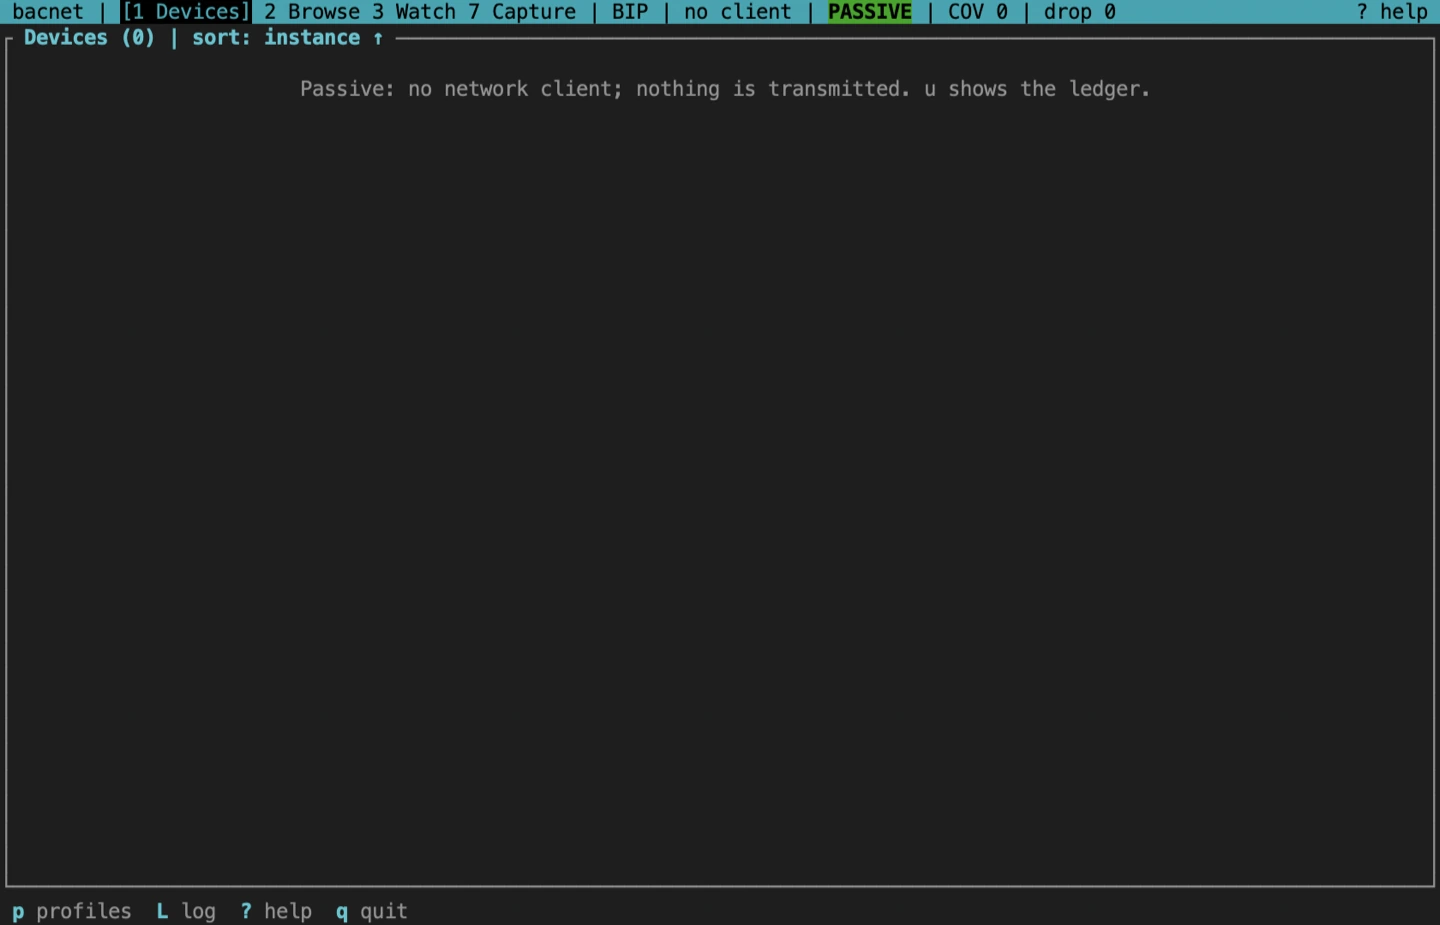
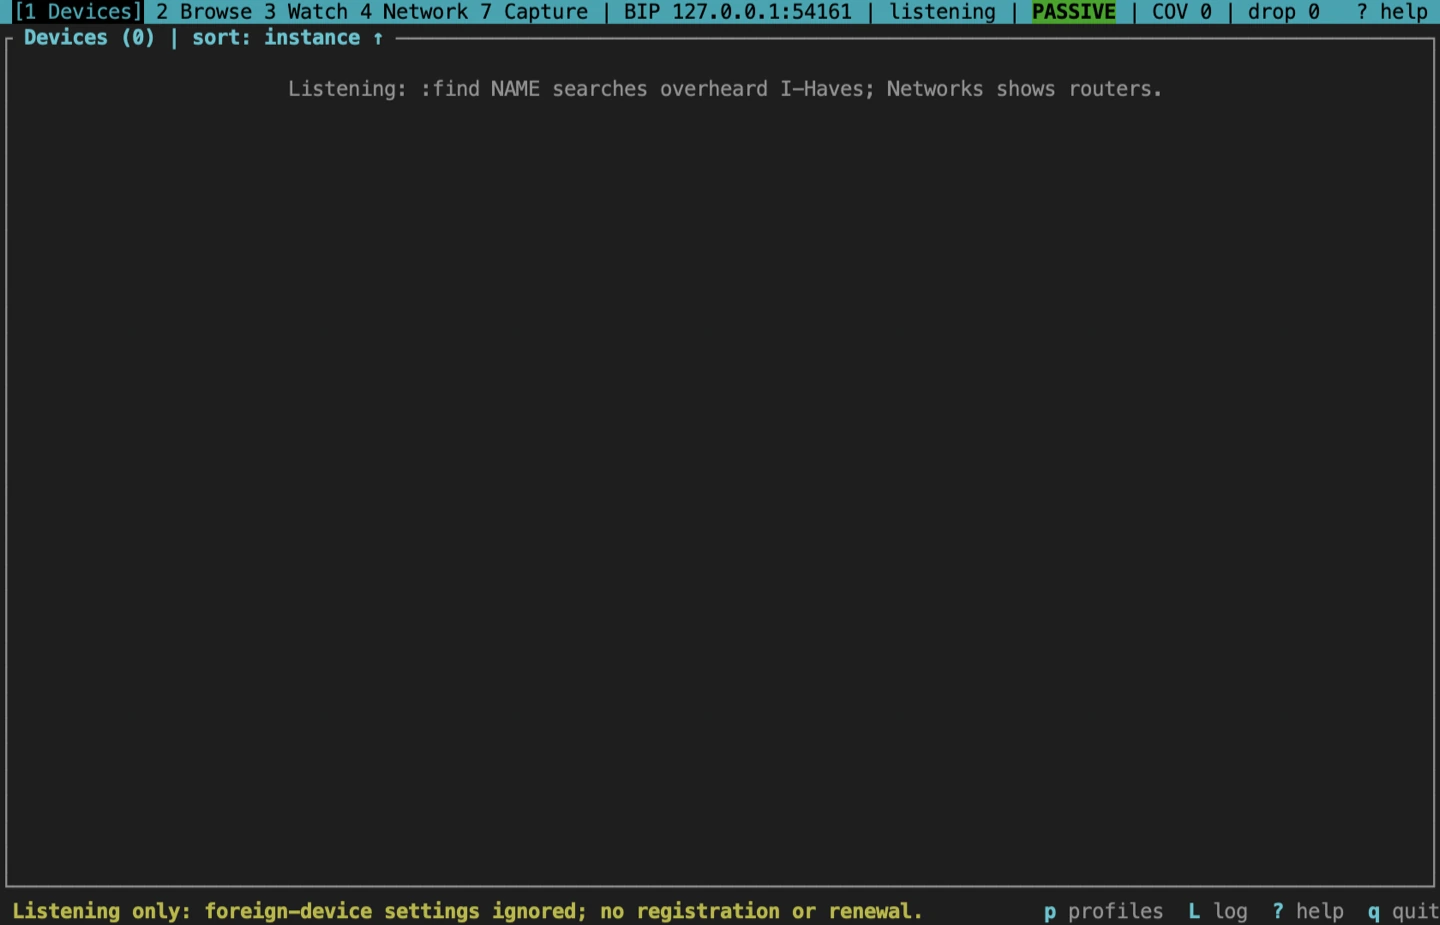
docs(website): describe passive TUI sessions as listen-only (#2110)
Since #1850 a passive session on a B/IP profile binds a receive-only
socket and decodes what it hears: :find NAME searches overheard I-Haves
and the Networks tab shows routers heard. Nothing is sent: the socket
has no send path, foreign-device settings are ignored, and the
listener tests assert zero send attempts. Other transports and B/IP
multicast fail to connect, with the reason shown.

The profiles page's level table and its Passive sessions paragraph, and
the --passive row on the keys page, said no client is built. They now
describe the listener. The profiles-passive screenshot is retaken from
dev, and its caption changes in capture.py, the manifest and the page
alt text together. The other screenshots wait for the release shoot.

diff --git a/website/scripts/tui-screenshots/capture.py b/website/scripts/tui-screenshots/capture.py
@@ -82,7 +82,7 @@ SHOTS = {
     "profiles-new-bip": (MAIN, "The new B/IP profile form with its fields and their defaults."),
     "profiles-new-mstp": (MAIN, "The new MS/TP profile form: serial port, MAC, baud, Max_Master and Max_Info_Frames."),
     "profiles-preview-attest": (MAIN, "A B/IP profile preview in Foreign Device mode, asking for first-use authorization."),
-    "profiles-passive": (MAIN, "A passive session: the status bar reads PASSIVE and the device list says nothing is transmitted."),
+    "profiles-passive": (MAIN, "A passive B/IP session: the status bar reads listening and PASSIVE, and the footer says foreign-device settings are ignored."),
     "discovery-whois-form": (MAIN, "The Who-Is form with its Scope, Target, Range and Listen fields."),
     "discovery-whois-warning": (MAIN, "The Who-Is form warning that a global Who-Is with no range reaches every device."),
     "discovery-devices": (MAIN, "The device table after a global Who-Is: two local devices and one routed device on network 2."),
